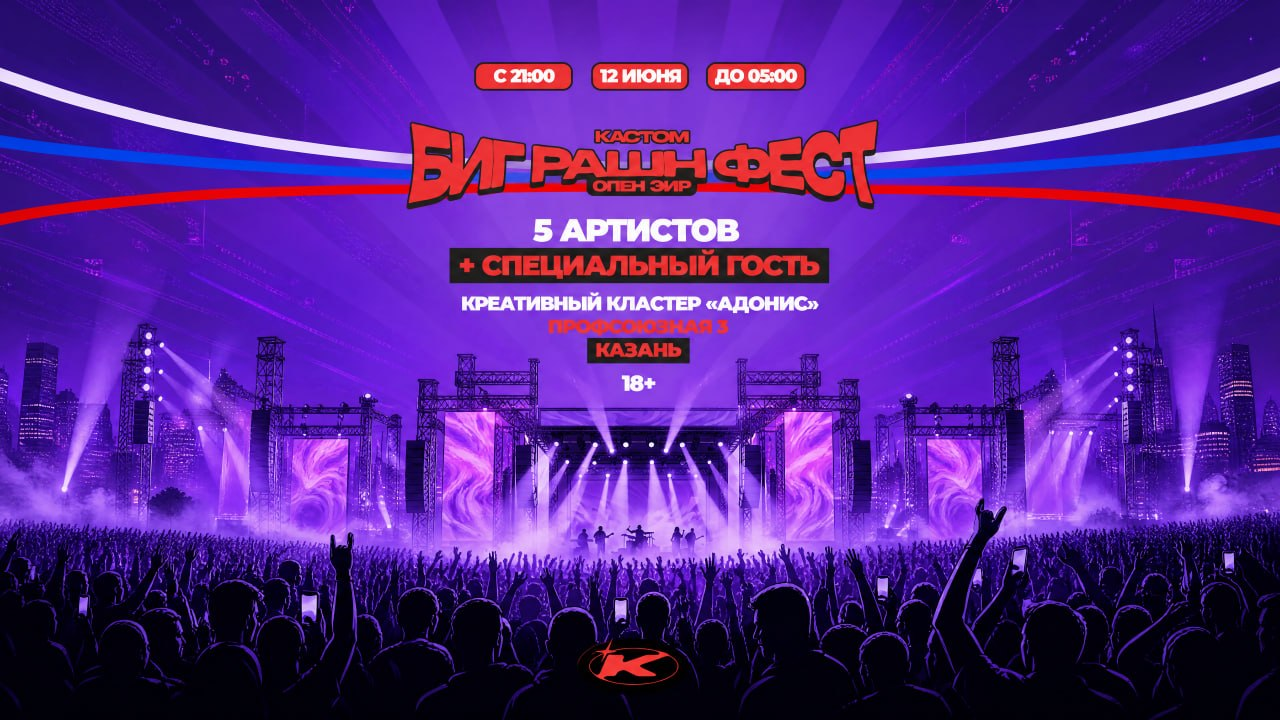
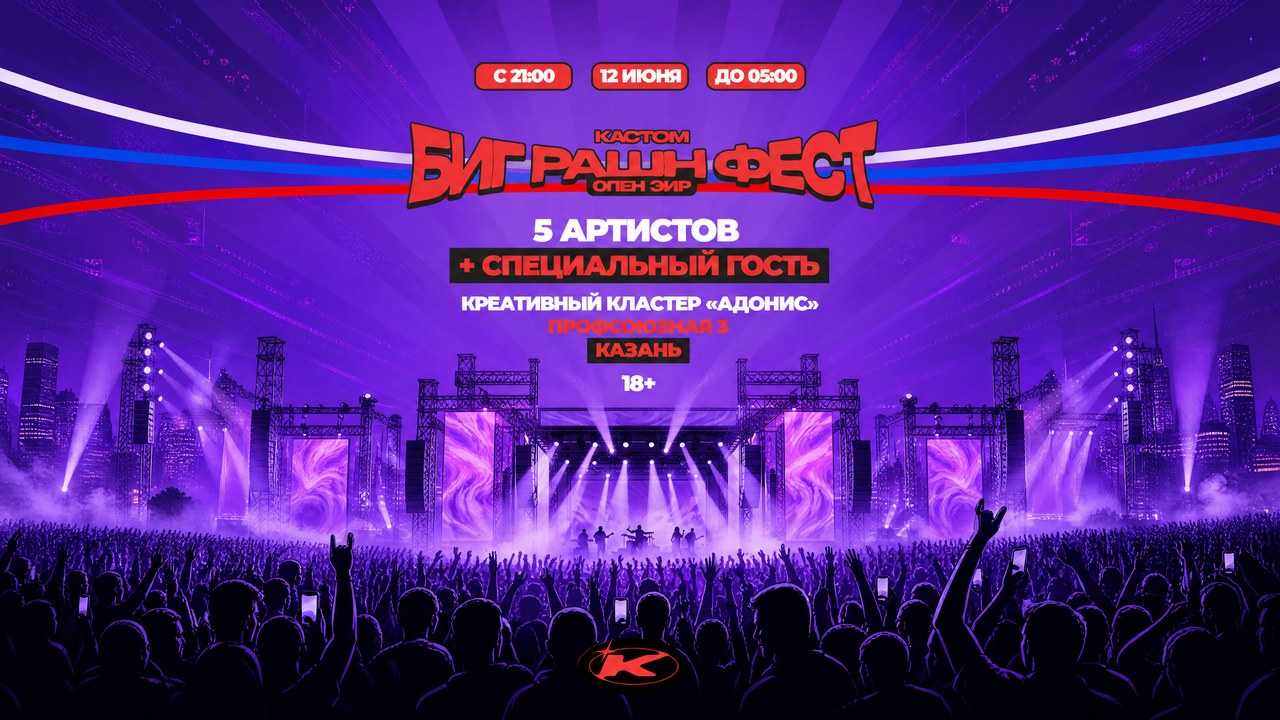
hero: заменить постер на оригинал 4K (PNG 3840x2160), srcset для desktop/mobile — резко и без мыла

diff --git a/index.html b/index.html
@@ -1593,7 +1593,11 @@
   <h1 class="hero-artist-name" data-text="BIG RUSSIAN FEST">BIG RUSSIAN FEST</h1>
 
   <div class="hero-img-wrap">
-    <img src="assets/brf-poster.jpg" alt="Big Russian Boss" loading="eager">
+    <picture>
+      <source media="(min-width: 1921px)" srcset="assets/brf-poster-3840.jpg">
+      <source media="(min-width: 769px)" srcset="assets/brf-poster-1920.jpg">
+      <img src="assets/brf-poster.jpg" alt="Big Russian Boss" loading="eager" fetchpriority="high">
+    </picture>
   </div>
 
   <!-- Tricolor stripe -->
